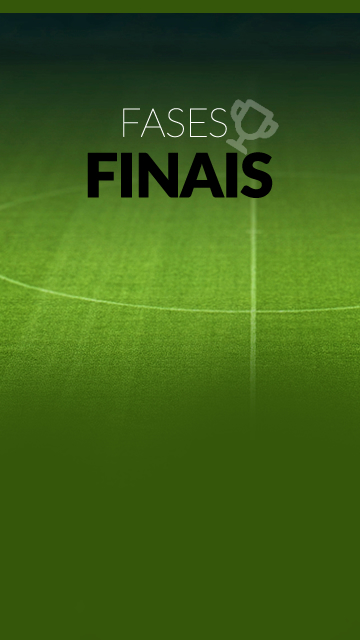
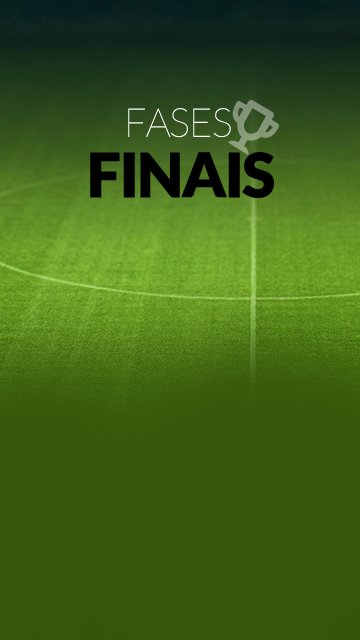
Colocando o fundo para a fase final

diff --git a/www/js/controller.js b/www/js/controller.js
@@ -752,8 +752,16 @@ planetaBrasilControllers.controller('ProgrammingCtrl', ['$scope', '$http', '$loc
 
 planetaBrasilControllers.controller('FinalsCtrl', ['$scope', '$http',
     function ($scope, $rootScope, $http ) {
+ 
         $http = $rootScope;
         $scope.items = $rootScope.items;
+        if (language == 2) {
+            $scope.bg_img = "fases-finais_en.jpg"
+        }else if (language == 3) {
+            $scope.bg_img = "fases-finais_es.jpg"
+        }else {
+            $scope.bg_img = "fases-finais.jpg"
+        }
         language = localStorage.getItem('language');
         //$scope.finals = finals[language];
 

diff --git a/www/templates/finals.html b/www/templates/finals.html
@@ -74,7 +74,7 @@
 	</div>
 	<button class="btn-gps"></button>
 </header>
-<div class="bg-internas left-menu"><img src="images/fases-finais.jpg" alt="Bacground"></div>
+<div class="bg-internas left-menu"><img src="images/{{bg_img}}" alt="Bacground"></div>
 <div id="wrapper">
 	<div class="page">
 		<div class="section">
